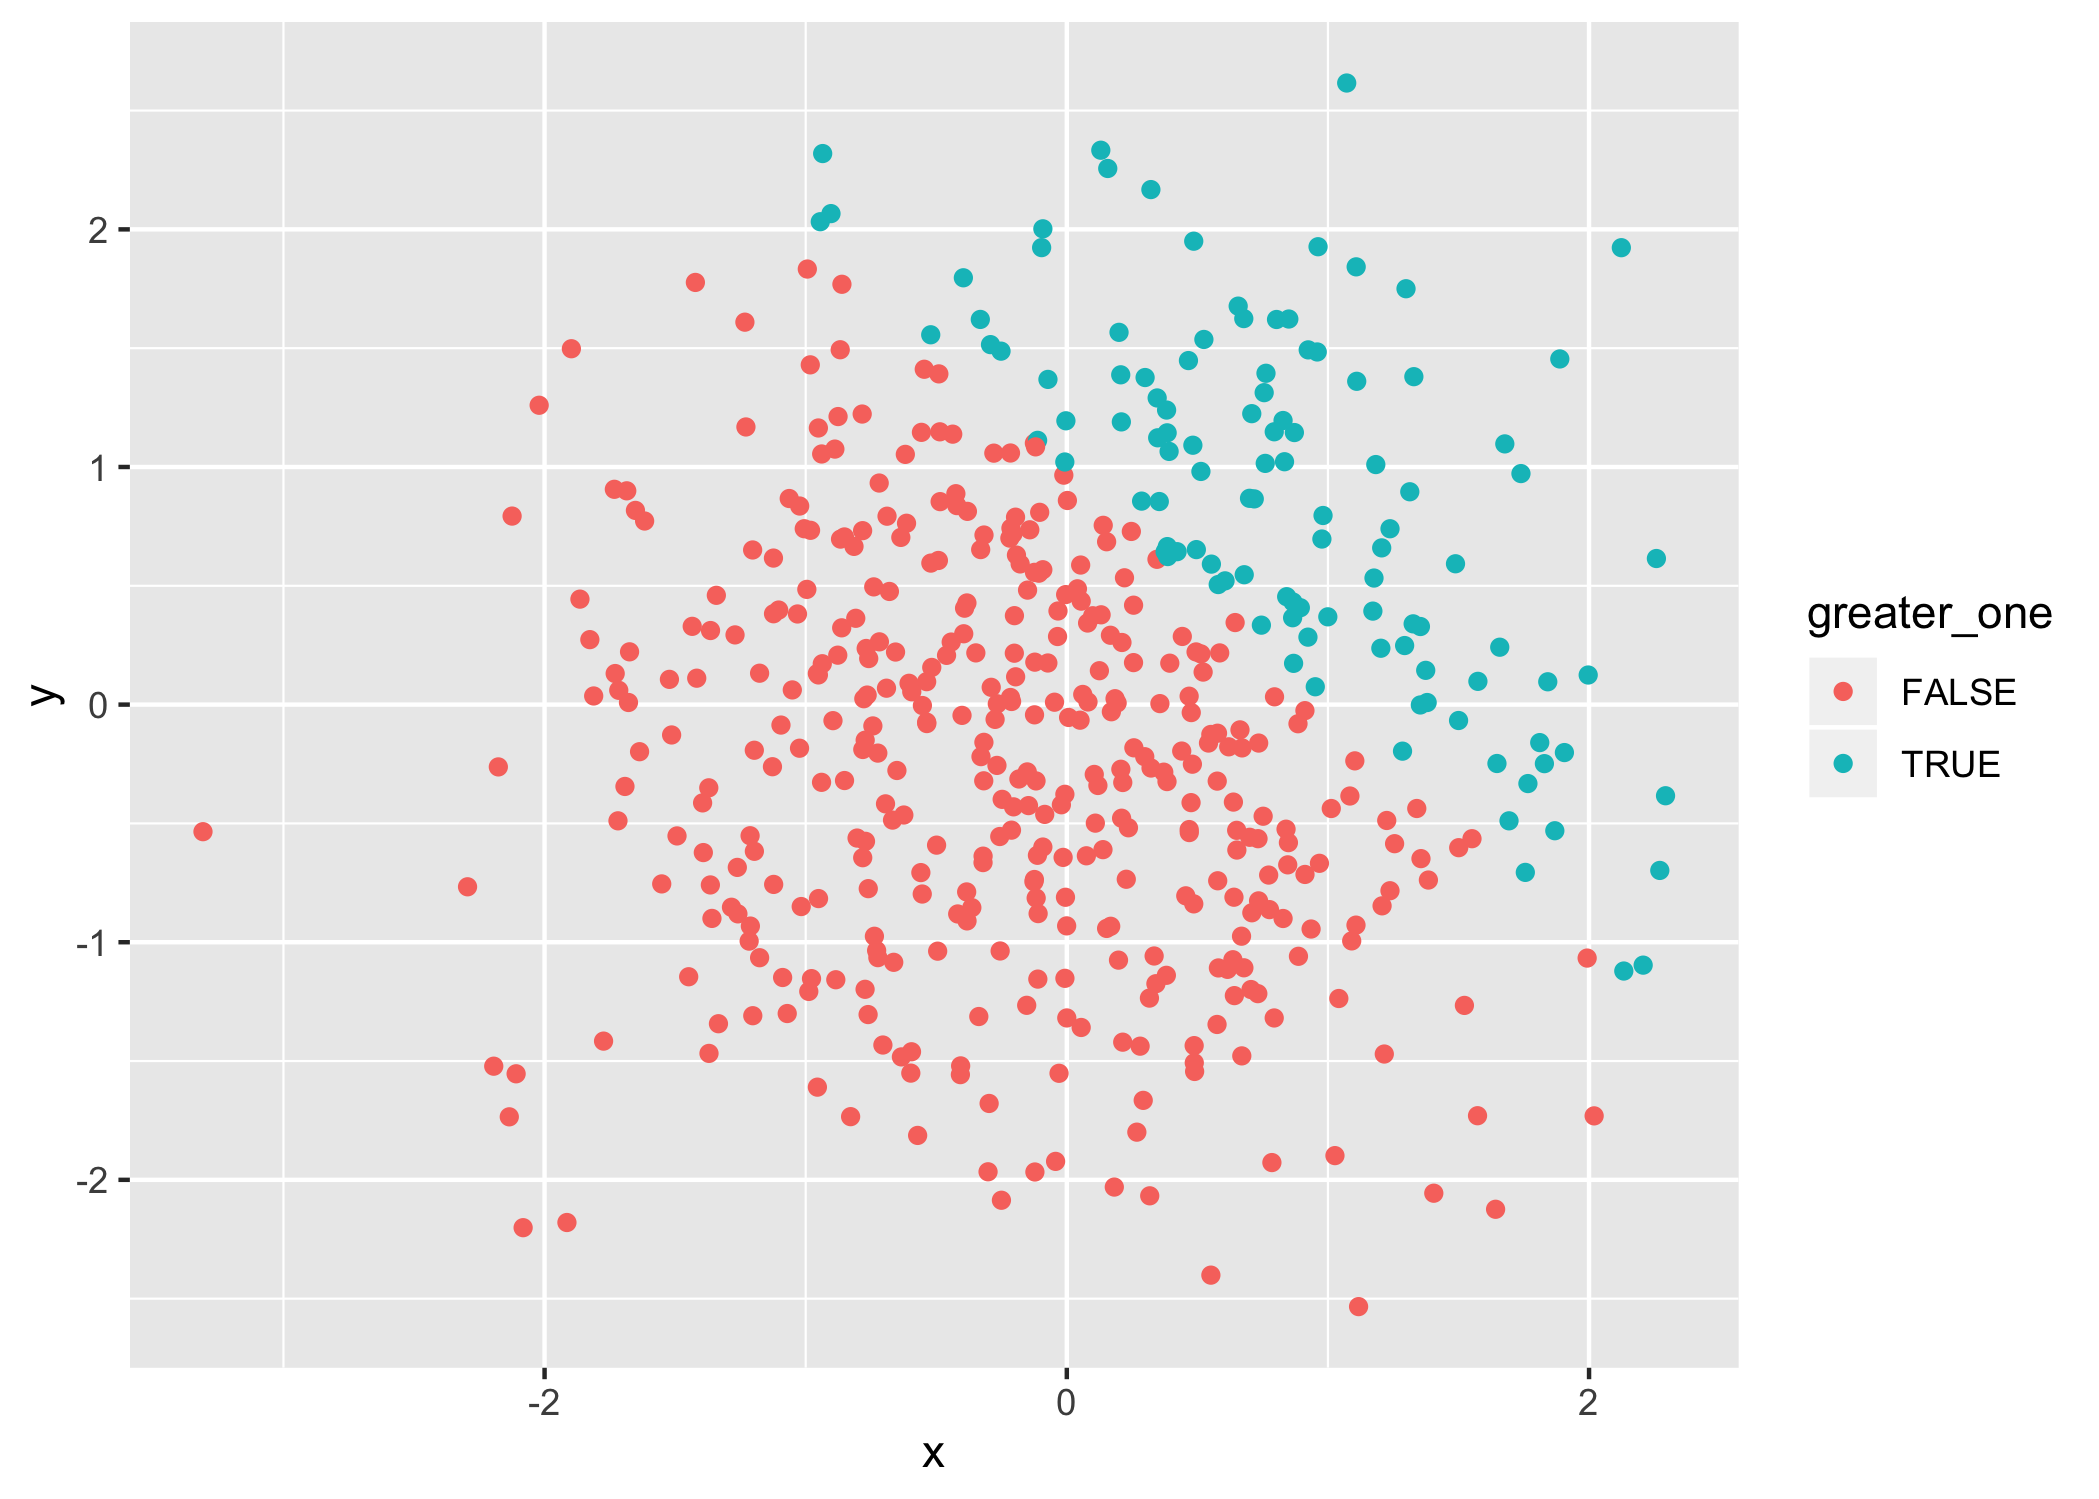
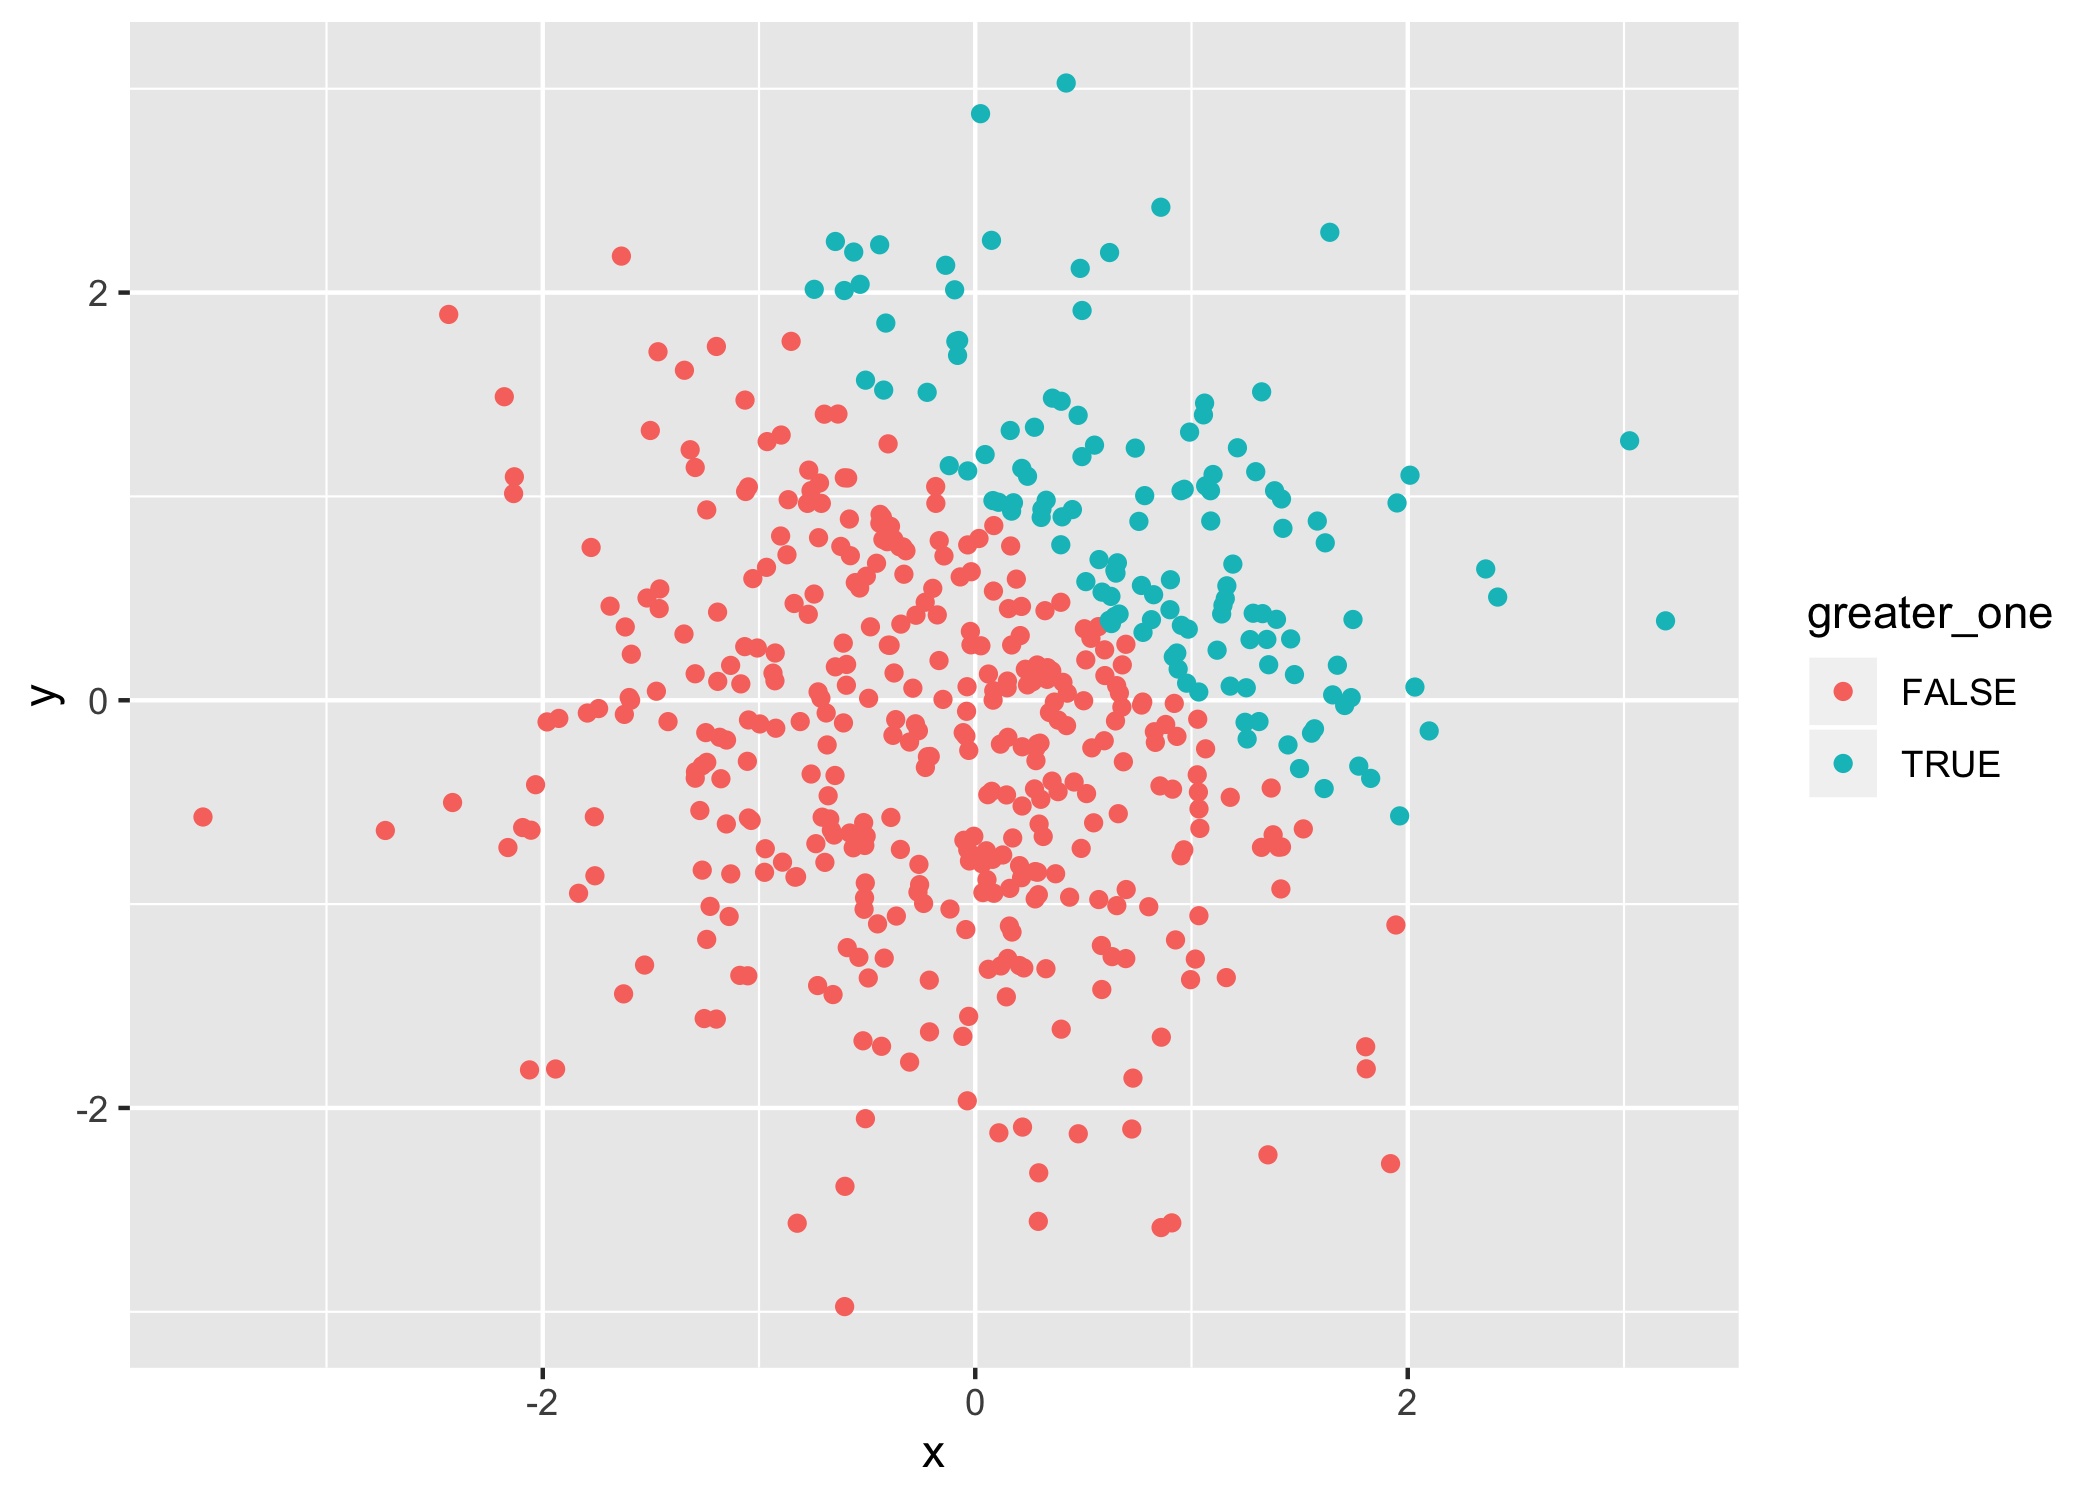
Added heading for scatterplots

diff --git a/p8105_hw1_rc3179.md b/p8105_hw1_rc3179.md
@@ -23,9 +23,9 @@ p1_df = tibble (
 
 **Attempting to take the mean of each type of vector:**
 
-The mean of numeric vector sample is -0.0963708
+The mean of numeric vector sample is 0.3427428
 
-The mean of logical vector logic\_vect is 0.375
+The mean of logical vector logic\_vect is 0.75
 
 The mean of character vector char\_vect is NA
 
@@ -63,8 +63,8 @@ multiply the random sample by the
 pull(p1_df, sample)*as.numeric(pull(p1_df, logic_vect))
 ```
 
-    ## [1] 1.05682305 0.00000000 2.01555504 0.00000000 0.00000000 0.00394213
-    ## [7] 0.00000000 0.00000000
+    ## [1] 0.2571343 0.5142921 0.5314079 1.3771320 0.8989601 0.0000000 0.1628986
+    ## [8] 0.0000000
 
 ``` r
 pull(p1_df, sample)*as.factor(pull(p1_df, logic_vect))
@@ -79,8 +79,8 @@ pull(p1_df, sample)*as.factor(pull(p1_df, logic_vect))
 pull(p1_df, sample)*as.numeric(as.factor((pull(p1_df, logic_vect))))
 ```
 
-    ## [1]  2.113646092 -0.524899231  4.031110074 -0.865543918 -1.076619867
-    ## [6]  0.007884259 -0.925563274 -0.454660140
+    ## [1]  0.5142685  1.0285842  1.0628159  2.7542641  1.7979201 -0.7446324
+    ## [7]  0.3257971 -0.2552499
 
 # Problem 2
 
@@ -101,11 +101,10 @@ p2_df = tibble(
 ```
 
 The dataframe created above has size of 500 rows and 5 columns. The mean
-of x is -0.0207286, median of x is -0.0252896, and the standard
-deviation of x is 0.9402117 The proportion of cases for which x + y \> 1
-is 0.224
+of x is 0.0136425, median of x is 0.0680012, and the standard deviation
+of x is 0.9726537 The proportion of cases for which x + y \> 1 is 0.258
 
-\#\#Scatterplots
+## Scatterplots
 
 ``` r
 #Scatterplot by logic
